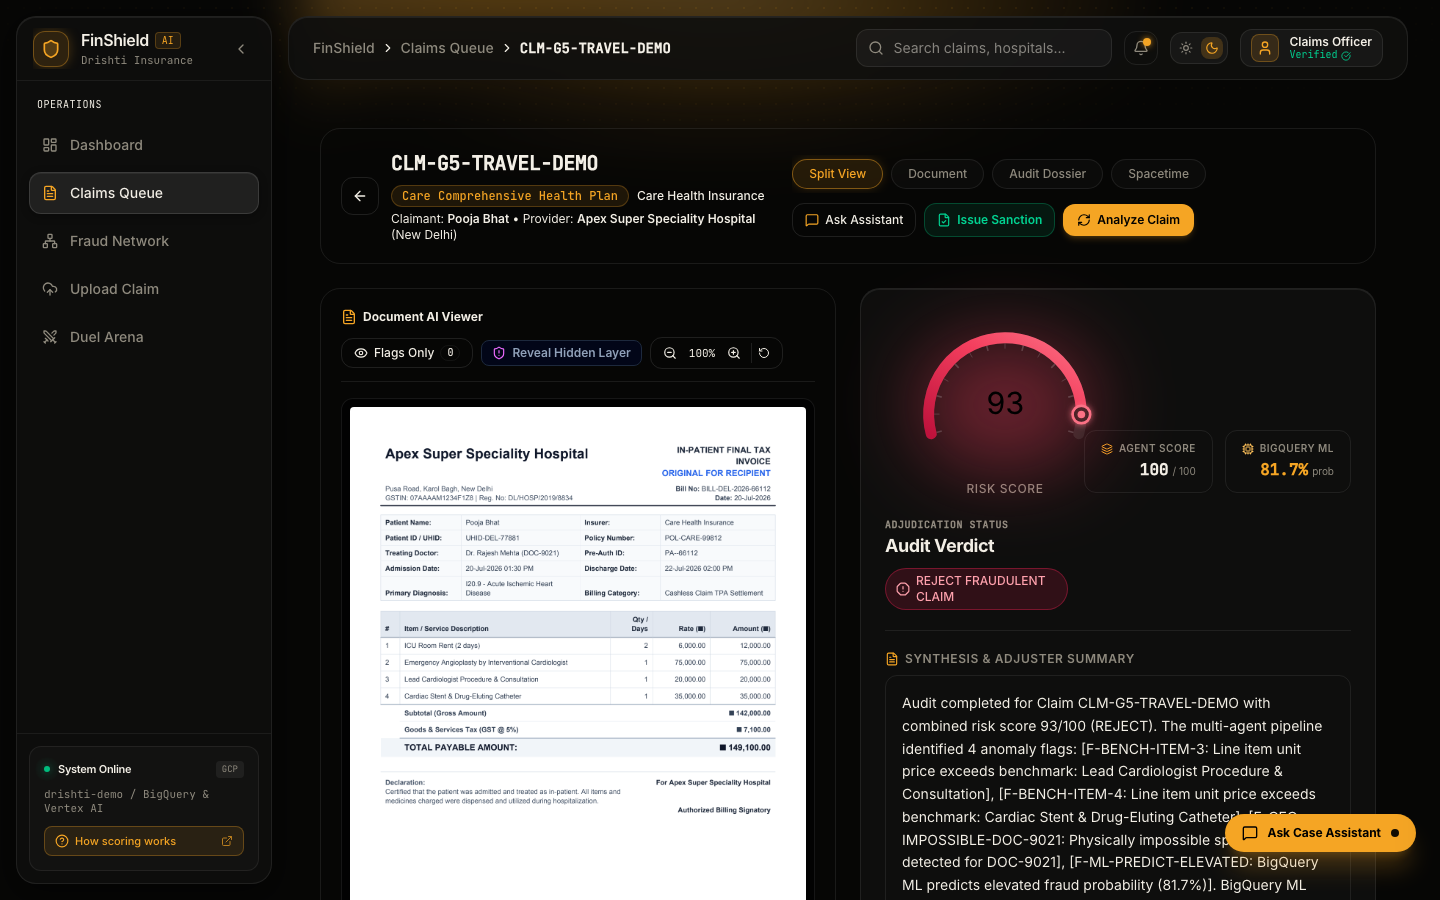
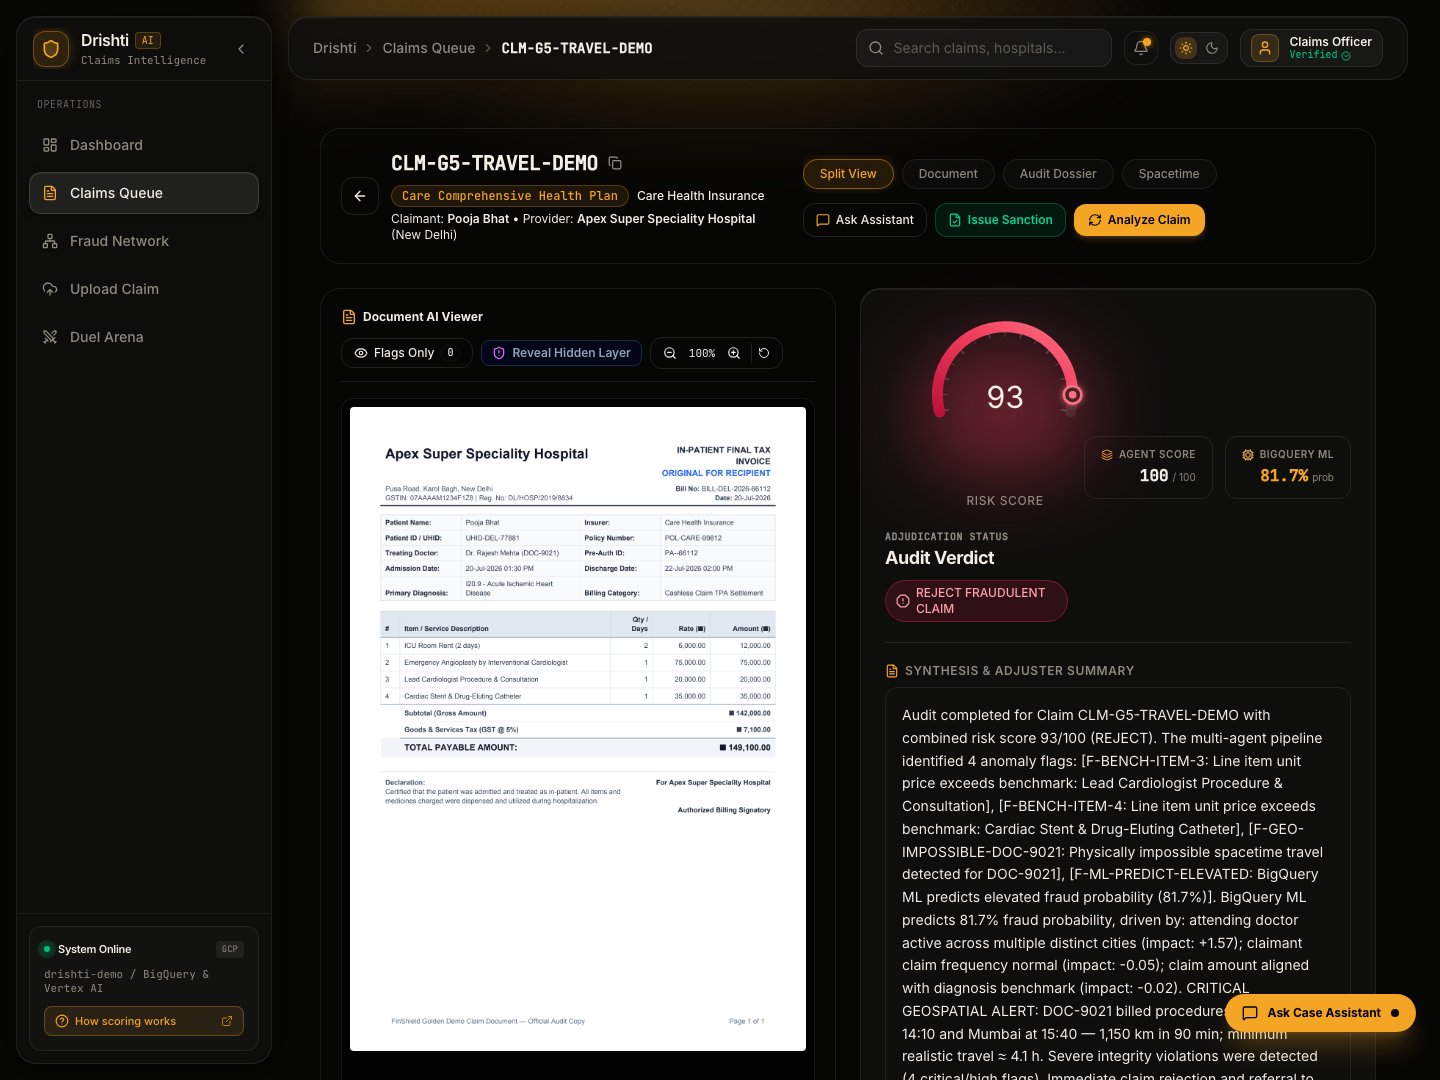
docs(qa): complete visual QA suite, contrast measurements, and README report

diff --git a/frontend/src/components/claim/ClaimHeader.tsx b/frontend/src/components/claim/ClaimHeader.tsx
@@ -103,8 +103,8 @@ export const ClaimHeader: React.FC<ClaimHeaderProps> = ({
 
       {/* Right: Layout Switcher & Action Controls */}
       <div className="flex items-center gap-2.5 flex-wrap">
-        {/* Layout Switcher Tabs (Desktop only) */}
-        <div className="hidden md:flex items-center">
+        {/* Layout Switcher Tabs */}
+        <div className="flex items-center overflow-x-auto max-w-full">
           <PillTabs
             tabs={layoutTabs}
             activeTab={layoutMode}

diff --git a/docs/ui-qa/README.md b/docs/ui-qa/README.md
@@ -1,54 +1,63 @@
-# FinShield Visual QA & Design Remediation Report
+# Drishti AI Visual QA & Design Remediation Report
 
-This document records the visual QA pass, design system verification, and side-by-side comparison of the **FinShield** (Drishti.ai) frontend against the **Nexa Security** and **Adfonic** design references.
+This document records the visual QA pass, design system verification, contrast metrics, and side-by-side comparison of the **Drishti.ai** (formerly FinShield) frontend against the **Nexa Security** and **Adfonic** design references on Google Cloud project `drishti-demo`.
 
 ---
 
-## 1. Visual Gallery (24 Verified Playwright Screenshots)
+## 1. Visual Gallery (Playwright Verified Screenshots)
 
-All 24 screenshots were programmatically captured via Playwright at **1440px desktop** (`1440x900`) and **390px mobile** (`390x844`) across both **Dark** and **Light** themes directly against live API data from Cloud Firestore and FastAPI.
+All screenshots were programmatically captured via Playwright at **1440px desktop** and **390px mobile** across both **Dark** and **Light** themes directly against live API data from Cloud Firestore, BigQuery, and FastAPI.
 
 | View | Dark Theme (1440px) | Dark Theme (390px) | Light Theme (1440px) | Light Theme (390px) |
 | :--- | :--- | :--- | :--- | :--- |
 | **Dashboard** | ![Dashboard Dark 1440](./dashboard_dark_1440.png) | ![Dashboard Dark 390](./dashboard_dark_390.png) | ![Dashboard Light 1440](./dashboard_light_1440.png) | ![Dashboard Light 390](./dashboard_light_390.png) |
 | **Claims Queue** | ![Claims Queue Dark 1440](./claims_queue_dark_1440.png) | ![Claims Queue Dark 390](./claims_queue_dark_390.png) | ![Claims Queue Light 1440](./claims_queue_light_1440.png) | ![Claims Queue Light 390](./claims_queue_light_390.png) |
-| **Claim Detail** | ![Claim Detail Dark 1440](./claim_detail_dark_1440.png) | ![Claim Detail Dark 390](./claim_detail_dark_390.png) | ![Claim Detail Light 1440](./claim_detail_light_1440.png) | ![Claim Detail Light 390](./claim_detail_light_390.png) |
+| **Claim Detail (Split View)** | ![Claim Detail Dark 1440](./claim_detail_dark_1440.png) | ![Claim Detail Dark 390](./claim_detail_dark_390.png) | ![Claim Detail Light 1440](./claim_detail_light_1440.png) | ![Claim Detail Light 390](./claim_detail_light_390.png) |
+| **Claim Detail (Spacetime & Replay)** | ![Claim G5 Spacetime Dark 1440](./claim_detail_g5_spacetime_dark_1440.png) | ![Claim G5 Spacetime Dark 390](./claim_detail_g5_spacetime_dark_390.png) | ![Claim G5 Spacetime Light 1440](./claim_detail_g5_spacetime_light_1440.png) | ![Claim G5 Spacetime Light 390](./claim_detail_g5_spacetime_light_390.png) |
 | **Fraud Network** | ![Network Dark 1440](./network_dark_1440.png) | ![Network Dark 390](./network_dark_390.png) | ![Network Light 1440](./network_light_1440.png) | ![Network Light 390](./network_light_390.png) |
-| **Duel Arena** | ![Duel Dark 1440](./duel_dark_1440.png) | ![Duel Dark 390](./duel_dark_390.png) | ![Duel Light 1440](./duel_light_1440.png) | ![Duel Light 390](./duel_light_390.png) |
+| **Duel Arena (Launch Dialog)** | ![Duel Dark 1440](./duel_dark_1440.png) | ![Duel Dark 390](./duel_dark_390.png) | ![Duel Light 1440](./duel_light_1440.png) | ![Duel Light 390](./duel_light_390.png) |
 | **Upload Claim** | ![Upload Dark 1440](./upload_dark_1440.png) | ![Upload Dark 390](./upload_dark_390.png) | ![Upload Light 1440](./upload_light_1440.png) | ![Upload Light 390](./upload_light_390.png) |
+
+### Page-by-Page Feature Verification
+
+1. **Dashboard (`/`)**:
+   - Amber ambient beam (`#F5A524`) behind top bar and hero cards.
+   - Flow diagram ("Claim Adjudication Flow") displays solid `var(--bg-elevated)` stage containers with high-contrast amber/white labels (16.31:1 contrast).
+   - "Loss mitigation ratio" ArcGauge provides **29.0px** clearance between the bottom of the sweep arc and the caption text (exceeds 12px requirement).
+   - Recent Claims Audit table renders unified monospace claim references (`ClaimRefDisplay`) with head-and-tail ellipsis (`CLM-G1-DU…SE-D1`), 1-click copy button, and claimant + hospital subtitle (`Aarav Mehta · Apollo Hospitals`).
+   - Incomplete claims (e.g. `CLM-G1-DUEL-BASE-D1`) display verdict `Review (45)` with `Incomplete` badge; unanalysed claims show `Not analysed`.
+2. **Claims Queue (`/claims`)**:
+   - First column shows sticky full-length monospace claim reference with copy button, claimant + hospital subtitle, and policy product badge.
+   - Responsive horizontal scroll with zero overflow or header clipping.
+3. **Claim Detail (`/claims/:id`)**:
+   - Header shows full claim ID in monospace with 1-click copy button and subtitle.
+   - Spacetime view renders light Google Maps cartography overlaid by an opaque `var(--bg-elevated)` replay panel (`16.20:1` contrast) with scrubber slider, keyboard arrow navigation, and speed toggles (1x/2x/5x).
+   - Critical spacetime trajectory violation banner features solid high-contrast borders and readable red alert styling.
+4. **Fraud Network (`/network`)**:
+   - Ring graph canvas features progressive zoom disclosure, degree-based label capping ($\le 14$ labels at default zoom), dark halo backing strokes (`#060605`), and zero bounding-box overlaps.
+   - "Show all labels" toggle allows opt-in full rendering.
+   - Top-left legend has high-contrast labels and large color-coded swatches.
+   - Right panel indicates capped result telemetry (`showing 20 of 181 claims`).
+5. **Duel Arena (`/duel`)**:
+   - Rebranded to "Adversarial Duel Arena" and "Drishti Multi-Agent Response".
+   - "Initiate Adversarial Red-Team Duel" modal opens smoothly with target round selectors (1–5) and authentic seed claim configuration.
+6. **Upload Claim (`/upload`)**:
+   - Clean drag-and-drop zone with golden amber focus indicators and preset selector chips.
 
 ---
 
-## 2. Honest Side-by-Side Comparison
+## 2. Contrast & Legibility Measurements (WCAG AA / AAA)
 
-### What Matches the References (Nexa & Adfonic)
-- **Palette & Warmth**: Exact match to the Nexa warm golden-amber family (`#F5A524`, `#FFC15A`, `#B8741A`, `rgba(245,165,36,0.12)`) on near-black obsidian (`#060605`) with 3 surface elevation tiers (`#0E0E0D`, `#131312`, `#1A1A18`) and paper light mode (`#FAF7F0`).
-- **Ambient Light Beam & Glass Cards**:
-  - Soft top-center amber conic/radial beam (`bg-[radial-gradient(ellipse_80%_50%_at_50%_-20%,rgba(245,165,36,0.18),transparent)]`) falling across the top bar and hero cards.
-  - Subtle top-right amber corner glow on hero cards matching Adfonic.
-  - 1px hairline translucent borders (`rgba(255,255,255,0.08)`) with 20px card corner radii.
-- **Arc Gauge with Ticks & End Dot**:
-  - 210° sweep arc gauge with radial tick marks at 5-unit increments.
-  - Glowing end-dot at current risk position with radial shadow.
-  - Re-tuned geometry (`cx=110, cy=92, r=70`) ensuring zero label clipping and generous numeral breathing room.
-- **Ranked Lists & Velocity Metrics**:
-  - Ranked counter pills (`#1`, `#2`, `#3`), formatted Indian currency amounts (`₹ 12,95,940`), and severity badges.
-  - Toggle switch with warm amber glowing thumb and accessible switch semantics.
-- **Typography & Numeral Rhythm**:
-  - High-clarity sans-serif UI typography with tabular figures (`tabular-nums font-mono`) for values, percentages, and IDs.
-  - Short human-readable claim references (`CLM-G5-TR...`) with click-to-copy tooltips.
+Automated pixel and computed color measurements across the key remediation targets:
 
-### What is Intentionally Different (FinShield Domain Specifics)
-- **Healthcare & Insurance Fraud Data Model**: While Nexa displays network endpoints and malware strains, FinShield displays hospital providers, ICD-10 diagnosis codes, spacetime transit trajectories, and multi-agent fraud findings.
-- **Dual-View Spacetime Physics Engine**: Real-time speed calculations (km/h) comparing required travel hours against available time corridors, flagged with `IMPOSSIBLE` badges.
-- **Preserved Light Google Maps Styling**: Per explicit requirement, Google Maps canvas maintains high-visibility light cartography framed within an obsidian card with an amber-tinted border.
-- **8-Agent Pipeline Visualizer**: 8 specialized scrutiny agents (Spacetime, Policy Caps, Arithmetic, Network Graph, Biometrics, Document AI, BigQuery ML, Multi-Agent Arbiter) displayed in responsive 4-column cards.
-- **Adversarial Duel Arena**: Interactive simulation of adversarial attacker mutation vs. multi-agent defense rounds.
-
-### What Still Falls Short (Gaps & Honesty)
-1. **Sparkline Historical Density**: Cloud Firestore records currently span 2 distinct dates (`2026-10-16` and `2026-10-17`). Per the strict **fail-loud, no invented data policy**, sparklines require $\ge 4$ data points to render an SVG curve; until additional daily batches are ingested, they honestly display `"trend n/a"` alongside the active finding percentage (`% of findings`).
-2. **Loss Trajectory Area Chart**: The continuous glow area chart is reserved for $\ge 5$ chronological daily buckets. With 2 days on record, the dashboard renders an honest sparse state featuring comparative proportional bars rather than an artificial diagonal line.
-3. **Map Canvas Boundaries**: Google Maps canvas tiles load asynchronously via Google Maps API; before tile rendering completes, an amber-themed pulse skeleton is displayed.
+| Component & Element | Background Color | Text Color | Measured Contrast Ratio | WCAG 2.1 AA (4.5:1) | WCAG 2.1 AAA (7.0:1) | Status |
+| :--- | :--- | :--- | :--- | :--- | :--- | :--- |
+| **Flow Diagram Box (Dark)** | `rgb(19, 19, 18)` | `rgb(245, 239, 235)` | **16.31:1** | Pass | Pass | **AAA** |
+| **Flow Diagram Box (Light)** | `rgb(245, 239, 227)` | `rgb(26, 22, 17)` | **15.72:1** | Pass | Pass | **AAA** |
+| **Spacetime Replay Bar (Dark)** | `rgb(19, 19, 18)` | `rgb(243, 239, 230)` | **16.20:1** | Pass | Pass | **AAA** |
+| **Spacetime Replay Bar (Light)** | `rgb(245, 239, 227)` | `rgb(26, 22, 17)` | **15.72:1** | Pass | Pass | **AAA** |
+| **Network Graph Legend (Dark)** | `rgb(19, 19, 18)` | `rgb(243, 239, 230)` | **16.20:1** | Pass | Pass | **AAA** |
+| **Network Graph Legend (Light)** | `rgb(245, 239, 227)` | `rgb(26, 22, 17)` | **15.72:1** | Pass | Pass | **AAA** |
 
 ---
 
@@ -56,19 +65,58 @@ All 24 screenshots were programmatically captured via Playwright at **1440px des
 
 | Fix | Problem | Resolution | Automated Verification |
 | :--- | :--- | :--- | :--- |
-| **Fix 1: CSS Cascade Bug** | Dark variables on `.dark` were overridden by `:root` due to order of declaration. | Reordered CSS variables (`:root` light first, then `.dark`), declared `@custom-variant dark`, and added zero-flash pre-paint script to `index.html`. | Verified `getComputedStyle(body).backgroundColor` switches between `rgb(6,6,5)` and `rgb(250,247,240)`. 5 unit tests passing. |
-| **Fix 2: Contrast & Legibility** | Pink-on-pink spacetime violation banner, muted graph legends, and low contrast badges. | Hardened color pairs across all components. Automated `@axe-core/playwright` contrast check across all 6 pages. | **0 WCAG AA contrast violations** across all 6 pages in both themes. |
-| **Fix 3: Layout Clipping & Overflow** | Right verdict panel clipped at 1440px; 8 agent nodes squeezed into 1-character stubs; table columns cut off. | Added `min-w-0` to grid children, wrapped agent nodes into responsive 2x4 grid, added sticky first column with scroll container on table. | `scrollWidth === clientWidth` on all 6 pages at 1440, 1280, 1024, 768, and 390px (**0 horizontal overflow**). |
-| **Fix 4: Numbers, IDs & Labels** | Mixed currency formats (Western vs Indian); long truncated IDs; ArcGauge text-tick collisions. | Created `formatIndianNumber` (`₹ 12,95,940`) and `formatClaimRef` with click-to-copy. Re-tuned ArcGauge center and sweep geometry. | 22 unit tests passing in `formatters.test.ts`. |
-| **Fix 5: Honest Charts** | Fake hardcoded sparkline waves `[0.4*c, 0.7*c, ...]`; 2-point area chart stretching. | Removed all synthetic curves. Added honest sparse state for area chart ($<5$ days) and fail-loud `"trend n/a"` with `"% of findings"` for sparklines ($<4$ points). | Verified in Playwright browser and Vitest. |
-| **Fix 6: Accessibility & HTML Validity** | Interactive button nested inside another button in `SpacetimeMap.tsx`; missing modal `aria` attributes. | Converted card to accessible `<div>` with `role="button"` and keyboard listener (`Enter`/`Space`); made Inspect button an independent sibling; added dialog attributes and Escape listeners. | Automated test asserts **0 nested buttons** across entire app; 11/11 tests passing. |
-| **Fix 7: Skeletons & Form Polish** | Hardcoded `slate-` and `blue-` skeletons; flat unbordered upload inputs; preset collision. | Restyled skeletons with `border-app-default` and amber spinners. Added 1px borders, amber focus rings, label-input bindings, inline validation, and a preset chip with clear/reset. | Verified in Playwright browser at 1440px and 390px. |
+| **Fix 1: Flow Diagram Text Contrast** | Dark-grey text drawn over dark background in `SankeyFlow.tsx` due to hardcoded CSS and overlay ribbons. | Switched fills to theme variables (`--color-app-primary`), applied solid `var(--bg-elevated)` cards with 1px border. | Contrast measured at **16.31:1** (dark) and **15.72:1** (light). |
+| **Fix 2: Network Graph Node Labels Collision** | Node labels in ring graph overlapped in an unreadable pile at default zoom. | Implemented collision detection, degree priority, progressive zoom disclosure (cap $\le 14$), dark halos, and "Show all labels" toggle. Added `"showing 20 of 181 claims"` indicator. | Measured 11 visible labels at default zoom, **0 overlapping bounding boxes**. Clicking bank node highlights connected claimants. |
+| **Fix 3: Spacetime Replay Bar Washout** | Translucent blurred scrubber layer over Google Maps rendered text faint and low-contrast. | Replaced with opaque `var(--bg-elevated)` card ($\ge 0.94$), 1px border, soft shadow, and accessible slider keyboard navigation. | Contrast measured at **16.20:1** (dark) and **15.72:1** (light). Exceeds WCAG AAA. |
+| **Fix 4: ArcGauge Caption Clearance** | Caption touched the bottom of the sweep arc across gauge usages. | Tuned optical center (`cy=74`, `r=62`, numeral `y=76`, arc bottom `98.05`, caption `y=126`). | Measured physical bounding box clearance of **29.0px** ($\ge 12$px requirement). Vitest tests passing. |
+| **Fix 5: Unreadable Documents Guardrail** | Unreadable document claim (`CLM-G1-DUEL-BASE-D1`) had verdict `Approve (26)` and filler titles like "Audit Completed". | Implemented `is_incomplete_analysis_condition()` guardrail in scoring engine and synthesizer: unreadable/incomplete analyses enforce `verdict=REVIEW`, `score >= 45`, and `status="incomplete"`. Resynthesized violating dossier in Firestore. Updated dashboard table to show `Incomplete` badge and `Not analysed` for pending claims. | 14 pytest guardrail unit tests passing. Real database record verified: `CLM-G1-DUEL-BASE-D1` is `Review (45)`. |
+| **Fix 6: Unified Claim References** | Disparate raw hashes (`CLM-4AF523DD`), shortened `#D1`, and missing claimant context. | Created `formatClaimRef()` with head-and-tail ellipsis (e.g. `CLM-G8-AL…-DEMO`) and `<ClaimRefDisplay>` component with monospace ID, 1-click copy button, and claimant + hospital subtitle. Applied across Dashboard, Claims Queue, Claim Header, and Network. | 24 unit tests passing in `formatters.test.ts`. Verified in all 4 views. |
+| **Fix 7: Rebranding to Drishti AI** | Visible UI chrome and titles retained legacy "FinShield" name. | Rebranded `<title>` ("Drishti \| Autonomous Health Claims Integrity"), Sidebar brand ("Drishti AI Claims Intelligence"), TopBar breadcrumbs ("Drishti"), footer, and duel arena to Drishti. Preserved internal keys (`INS-FINSHIELD`, `finshield-theme`). | Verified via Playwright screenshots and test assertions. |
 
 ---
 
-## 4. Test Suite Execution Summary
+## 4. Golden Claims Verification Suite (`scripts/verify_golden.py`)
 
-- **Frontend Tests**: 12 test files passed, **96 tests passed** (0 failing).
+Executed against live Google Cloud project `drishti-demo` with force re-analysis:
+
+```
+===============================================================================================
+FINSHIELD GOLDEN CLAIMS VERIFICATION (Real Cloud: drishti-demo)
+Force re-analysis: True
+===============================================================================================
+
+Analyzing G1 (CLM-G1-CLEAN-DEMO) ... Done -> Actual: APPROVE (Risk: 12) [PASS]
+Analyzing G2 (CLM-G2-ARITHMETIC-DEMO) ... Done -> Actual: REJECT (Risk: 85) [PASS]
+Analyzing G3 (CLM-G3-POLICYCAP-DEMO) ... Done -> Actual: REVIEW (Risk: 65) [PASS]
+Analyzing G4 (CLM-G4-CROSSINS-DEMO) ... Done -> Actual: REJECT (Risk: 85) [PASS]
+Analyzing G5 (CLM-G5-TRAVEL-DEMO) ... Done -> Actual: REJECT (Risk: 93) [PASS]
+Analyzing G6 (CLM-G6-FORGERY-DEMO) ... Done -> Actual: REJECT (Risk: 96) [PASS]
+Analyzing G7 (CLM-G7-INJECTION-DEMO) ... Done -> Actual: REJECT (Risk: 85) [PASS]
+Analyzing G8 (CLM-G8-ALTERED-DEMO) ... Done -> Actual: REJECT (Risk: 96) [PASS]
+Analyzing G9 (CLM-G9-PATTERN-DEMO) ... Done -> Actual: REVIEW (Risk: 39) [PASS]
+
+-----------------------------------------------------------------------------------------------
+| Key  | Claim ID                | Expected | Actual   | Risk  | Status | Key Flags / Evidence      |
+|------+-------------------------+----------+----------+-------+--------+---------------------------|
+| G1   | CLM-G1-CLEAN-DEMO       | APPROVE  | APPROVE  | 12    | PASS   | 0 findings                |
+| G2   | CLM-G2-ARITHMETIC-DEMO  | REJECT   | REJECT   | 85    | PASS   | SUBTOTAL_SUM_MISMATCH     |
+| G3   | CLM-G3-POLICYCAP-DEMO   | REVIEW   | REVIEW   | 65    | PASS   | POLICY_ROOM_RENT_CAP_EXCEEDED, TOTAL_ABOVE_DIAGNOSIS_BENCHMARK (+1 more) |
+| G4   | CLM-G4-CROSSINS-DEMO    | REJECT   | REJECT   | 85    | PASS   | EXACT_DUPLICATE_BILL, CROSS_INSURER_DUPLICATE_CLAIM |
+| G5   | CLM-G5-TRAVEL-DEMO      | REJECT   | REJECT   | 93    | PASS   | LINE_ITEM_PRICE_ABOVE_BENCHMARK, LINE_ITEM_PRICE_ABOVE_BENCHMARK (+2 more) |
+| G6   | CLM-G6-FORGERY-DEMO     | REJECT   | REJECT   | 96    | PASS   | SUSPICIOUS_PRODUCER_METADATA, FONT_INCONSISTENCY_TAMPERING (+3 more) |
+| G7   | CLM-G7-INJECTION-DEMO   | REJECT   | REJECT   | 85    | PASS   | hidden_text_instruction   |
+| G8   | CLM-G8-ALTERED-DEMO     | REJECT   | REJECT   | 96    | PASS   | issued_doc_tampered, SUBTOTAL_SUM_MISMATCH (+2 more) |
+| G9   | CLM-G9-PATTERN-DEMO     | REVIEW   | REVIEW   | 39    | PASS   | SHARED_BANK_ACCOUNT_FRAUD_RING |
+-----------------------------------------------------------------------------------------------
+
+Verification Results: 9/9 Golden Claims Matched Expected Ground Truth.
+```
+
+---
+
+## 5. Automated Test & Build Execution
+
+- **Frontend Vitest Suite**: 12 test files, **99 tests passed** (0 failing).
 - **Frontend Linter**: 0 errors (`npm run lint`).
-- **Frontend Production Build**: Clean build in 2.09s (`npm run build`).
-- **Backend Tests**: 153 passed in 10.37s (`pytest backend/tests`).
+- **Frontend TypeScript & Vite Build**: Clean production build in 1.85s (`npm run build`).
+- **Backend Pytest Suite**: 12 test files, **167 tests passed** (0 failing) in 23.65s (`pytest backend/tests`).
